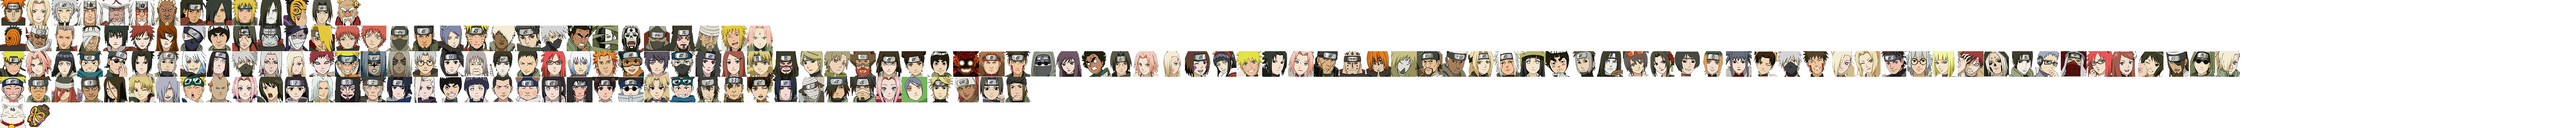
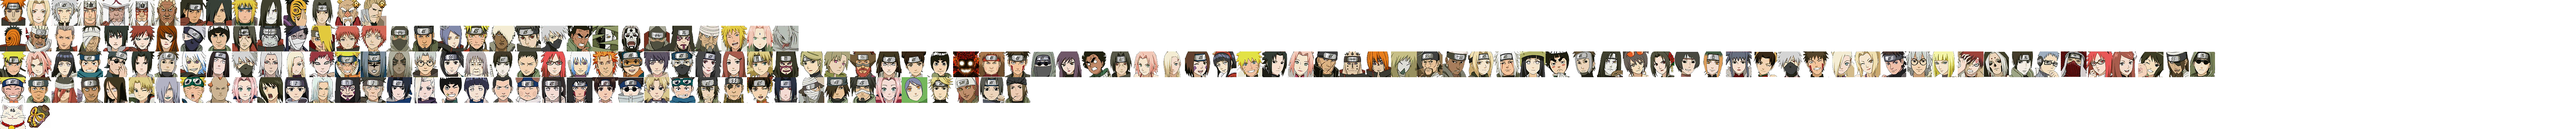
忍者更新
新增鬼灯幻月[二代目水影]、干柿鬼鲛{鲛肌融合}

diff --git a/ninjashare.html b/ninjashare.html
@@ -262,7 +262,7 @@ function fastmode(){
                 </div>
                 <div class="form_item form_item_ninja">
                 	<label class="dt">忍者数量</label>
-                    <div class="dd"><input maxscore="170" type="number" name="ninja_number" id="input_ninja_number" class="input_text" placeholder="最多170个" oninput="MaxScore($(this));" onBlur="tongbuimg($('#txt_wode_num'),this)" data-default="100" /></div>
+                    <div class="dd"><input maxscore="174" type="number" name="ninja_number" id="input_ninja_number" class="input_text" placeholder="最多174个" oninput="MaxScore($(this));" onBlur="tongbuimg($('#txt_wode_num'),this)" data-default="100" /></div>
                 </div>
                 
                 <div class="btns">
@@ -365,6 +365,20 @@ function fastmode(){
 								
                                 <li class="line"></li>
 								
+                                <li class="item_wrap btn ease1" data-rank="s" data-id="90103" data-name="鬼灯幻月[二代目水影]">
+                                    <div class="item">
+                                        <div class="img" style="background-position:-1008px 0;"></div>
+                                        <div class="fg"></div>
+                                    </div>
+                                </li>
+<!--
+								<li class="item_wrap btn ease1" data-rank="s" data-id="90103" data-name="大野木[三代目土影]">
+                                    <div class="item">
+                                        <div class="img" style="background-position:-936px 0;"></div>
+                                        <div class="fg"></div>
+                                    </div>
+                                </li>
+-->
                                 <li class="item_wrap btn ease1" data-rank="s" data-id="90052" data-name="自来也[仙人模式]">
                                     <div class="item">
                                         <div class="img" style="background-position:-360px 0;"></div>
@@ -456,6 +470,12 @@ function fastmode(){
 								
 								<li class="line"></li>
 								
+                                <li class="item_wrap btn ease1" data-rank="a" data-id="90166" data-name="干柿鬼鲛[鲛肌融合]">
+                                    <div class="item">
+                                        <div class="img" style="background-position:-2160px -72px;"></div>
+                                        <div class="fg"></div>
+                                    </div>
+                                </li>
                                 <li class="item_wrap btn ease1" data-rank="a" data-id="90263" data-name="波风水门[新春限定]">
                                     <div class="item">
                                         <div class="img" style="background-position:-2016px -72px;"></div>
